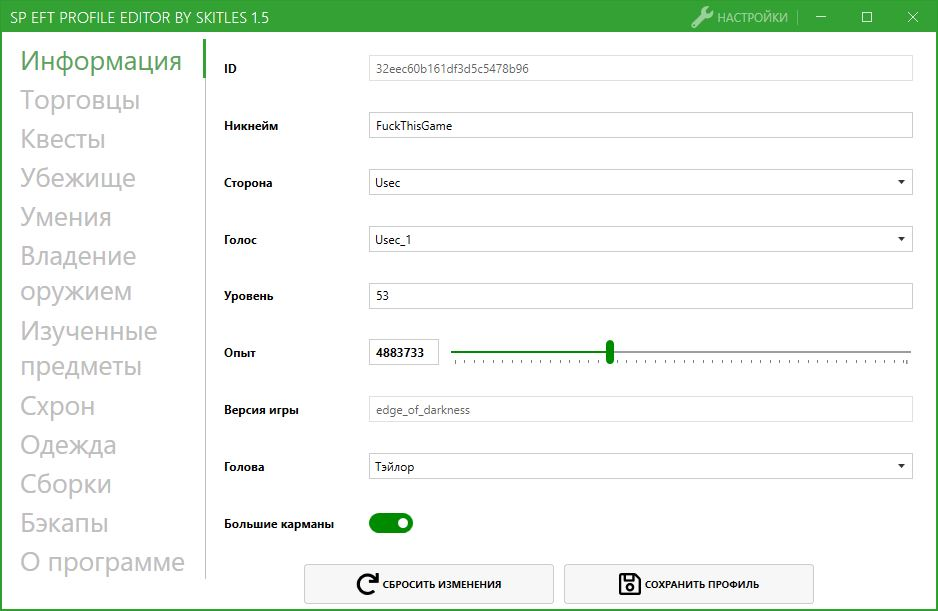
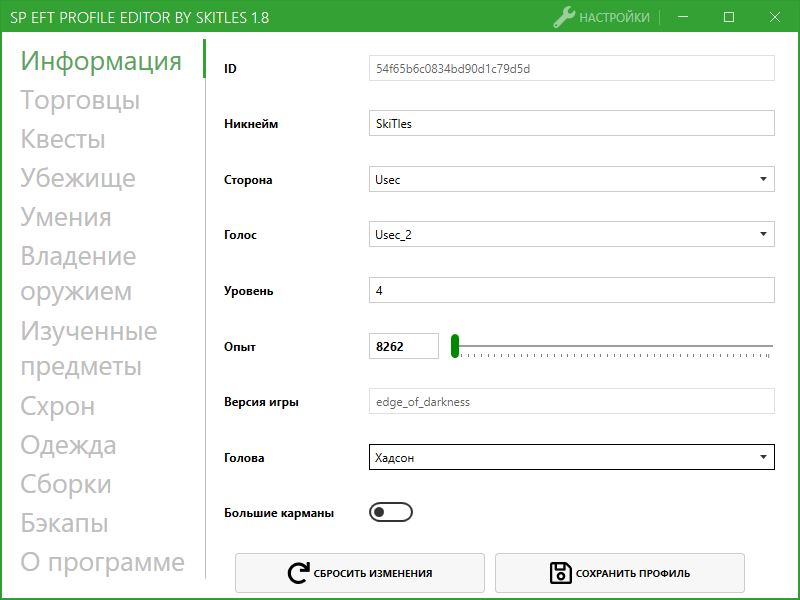
- Добавление лицензии - Обновление README

diff --git a/SP-EFT-ProfileEditor/Properties/AssemblyInfo.cs b/SP-EFT-ProfileEditor/Properties/AssemblyInfo.cs
@@ -8,11 +8,11 @@ using System.Windows;
 // набор атрибутов. Измените значения этих атрибутов, чтобы изменить сведения,
 // связанные со сборкой.
 [assembly: AssemblyTitle("SP-EFT-ProfileEditor")]
-[assembly: AssemblyDescription("Редасктор игрового профиля сервера SP Tarkov")]
+[assembly: AssemblyDescription("Редасктор игрового профиля сервера SPT-AKI")]
 [assembly: AssemblyConfiguration("")]
 [assembly: AssemblyCompany("")]
 [assembly: AssemblyProduct("SP-EFT-ProfileEditor")]
-[assembly: AssemblyCopyright("Copyright ©  2020 SkiTles")]
+[assembly: AssemblyCopyright("Copyright ©  2021 Дмитрий Худяков")]
 [assembly: AssemblyTrademark("")]
 [assembly: AssemblyCulture("")]
 

diff --git a/README.md b/README.md
@@ -19,6 +19,10 @@
 * Мультиязычность, с возможностью редактирования локализации
 * Автоматические бэкапы при каждом сохранении профиля
 
+### Требования:
+Версия 1.8 и выше - .NET 5.0
+Версии 1.0 - 1.7 - .NET Framework 4.6.1
+
 ## Начиная с версии 1.6 в конфигурационный файл PEOptions добавлены относительные пути к файлам сервера. Изменяя их, можно попробовать редактировать профиль на неподдерживаемом сервере (успех не гарантируется!!!).
 
 Относительные пути для сервера SPT-AKI Alpha R7
@@ -74,7 +78,11 @@ Program for editing player profile on the SPTarkov Server
 ### Features:  
 * Simple, intuitive interface  
 * Multilingual, with the ability to edit localization  
-* Automatic backups every time you save your profile  
+* Automatic backups every time you save your profile
+
+### Requirements:
+Version 1.8 and higher - .NET 5.0
+Versions 1.0 - 1.7 - .NET Framework 4.6.1  
 
 ## Starting from version 1.6, relative paths to server files have been added to the PEOptions configuration file. By changing them, you can try to edit the profile on an unsupported server (success is not guaranteed !!!).
 
